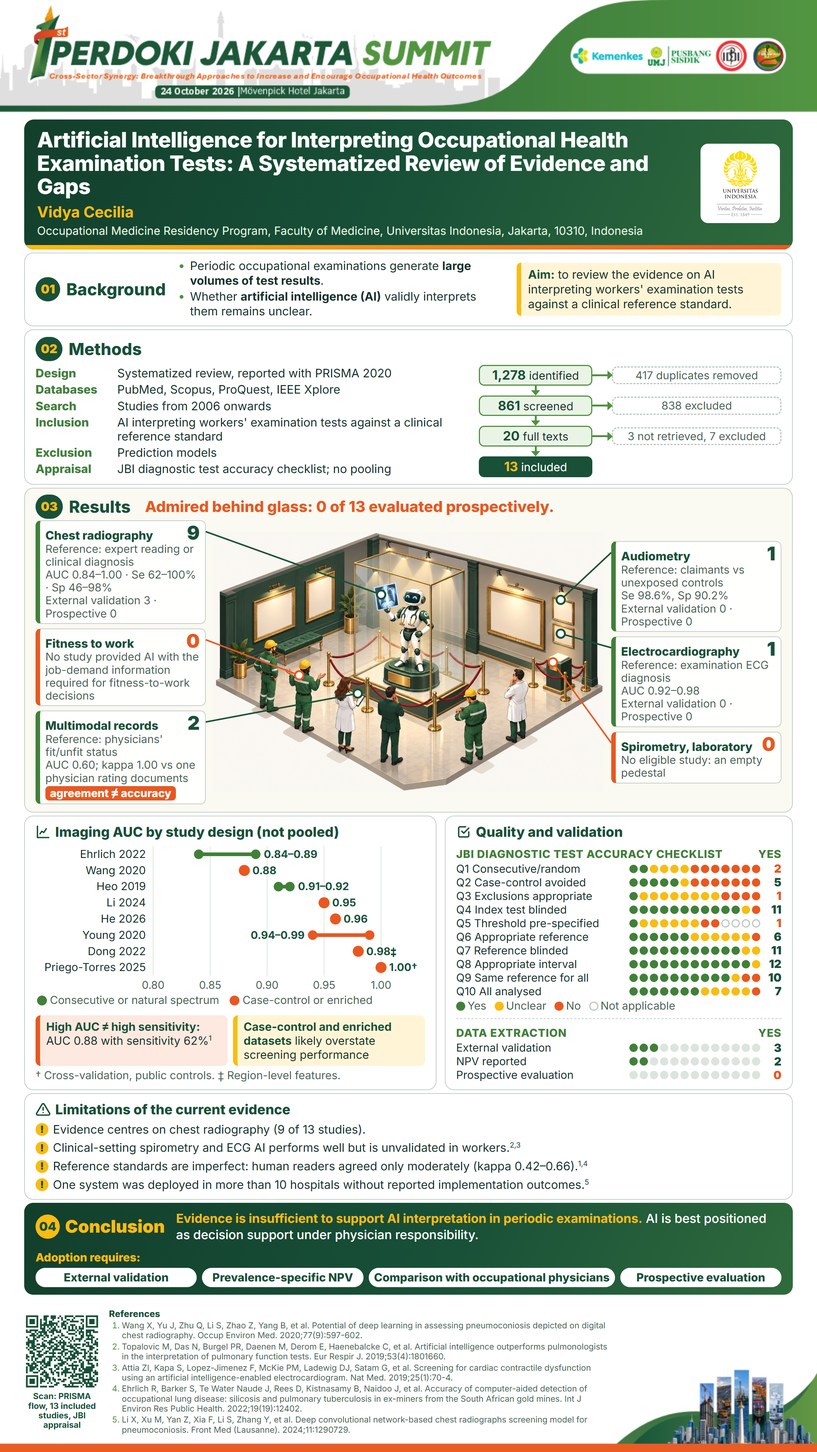
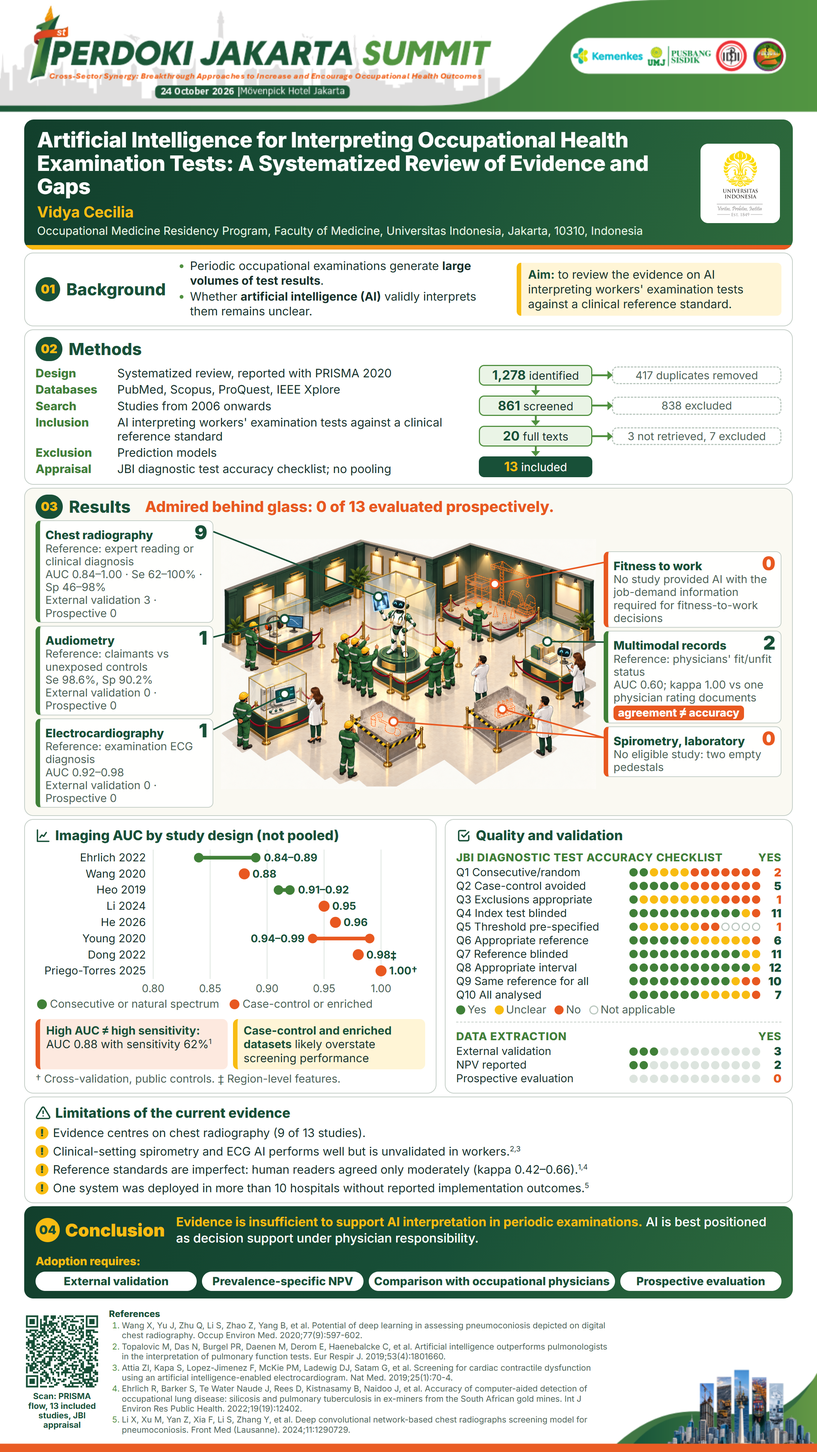
Rebuild alternative poster 3 on a museum image with one exhibit per examination test

Changed region(s): [[0.031, 0.3438, 0.9616, 0.9062], [0.2171, 0.3438, 0.2792, 0.375]]

diff --git a/Poster Jkt Summit eposter/poster_alt6.html b/Poster Jkt Summit eposter/poster_alt6.html
@@ -146,12 +146,12 @@
   .hero2 .kick.solo{margin:0 0 8px 0}
   .stage.grid{display:grid;align-items:center;gap:20px}
   .stage.grid img{position:static;width:100%;height:auto}
-  .stage.grid .col{position:static;display:flex;flex-direction:column;justify-content:center;gap:12px}
+  .stage.grid .col{position:static;display:flex;flex-direction:column;justify-content:center;gap:8px}
   .stage{position:relative}
   .stage img{position:absolute;display:block}
   .stage svg.lead{position:absolute;left:0;top:0;pointer-events:none;overflow:visible}
   .stage .col{position:absolute;top:0;bottom:0;display:flex;flex-direction:column;justify-content:space-between}
-  .cl{position:relative;background:rgba(255,255,255,.95);border:2px solid var(--line);border-left:12px solid var(--g600);border-radius:14px;padding:6px 14px 8px;font-size:29px;line-height:1.18;color:var(--ink)}
+  .cl{position:relative;background:rgba(255,255,255,.95);border:2px solid var(--line);border-left:12px solid var(--g600);border-radius:14px;padding:5px 14px 6px;font-size:29px;line-height:1.18;color:var(--ink)}
   .stage>.cl{position:absolute}
   .cl.z{border-left-color:var(--or)}
   .cl .t{display:flex;align-items:baseline;justify-content:space-between;gap:12px;font-weight:800;color:var(--g900);font-size:31px}
@@ -213,7 +213,7 @@
   </section>
 
   <section class="hero2"><div class="h"><span class="no">03</span>Results<span class="kick">One busy station, two closed ones, and no view of the workplace.</span></div>
-    <div class="stage" style="width:1972px;height:760px"><img src="assets/alt6_factory.png" alt="" style="left:480px;top:0px;width:1140px;height:760px"><svg class="lead"></svg><div class="col" style="left:0;width:450px"><div class="cl" data-ax="18" data-ay="25"><div class="t"><span>Chest radiography</span><span class="n">9</span></div><div class="m">Reference: expert reading or clinical diagnosis</div><div class="m">AUC 0.84–1.00 · Se 62–100% · Sp 46–98%</div><div class="m">External validation 3 · Prospective 0</div></div><div class="cl" data-ax="35" data-ay="27"><div class="t"><span>Audiometry</span><span class="n">1</span></div><div class="m">Reference: claimants vs unexposed controls</div><div class="m">Se 98.6%, Sp 90.2%</div><div class="m">External validation 0 · Prospective 0</div></div><div class="cl" data-ax="45" data-ay="38"><div class="t"><span>Electrocardiography</span><span class="n">1</span></div><div class="m">Reference: examination ECG diagnosis</div><div class="m">AUC 0.92–0.98</div><div class="m">External validation 0 · Prospective 0</div></div></div><div class="cl z" data-ax="56" data-ay="40" style="left:1170px;top:0px;width:380px"><div class="t"><span>Spirometry</span><span class="n">0</span></div><div class="m">No eligible study</div></div><div class="cl z" data-ax="64" data-ay="46" style="left:1592px;top:0px;width:380px"><div class="t"><span>Laboratory</span><span class="n">0</span></div><div class="m">No eligible study</div></div><div class="cl" data-ax="73" data-ay="58" style="left:1592px;top:170px;width:380px"><div class="t"><span>Multimodal records</span><span class="n">2</span></div><div class="m">Reference: physicians' fit/unfit status</div><div class="m">AUC 0.60; kappa 1.00 vs one physician rating documents</div><div class="m"><span class="tag">agreement ≠ accuracy</span></div></div><div class="cl z" data-ax="92" data-ay="66" style="left:1592px;top:520px;width:380px"><div class="t"><span>Fitness to work</span><span class="n">0</span></div><div class="m">No study provided AI with the job-demand information required for fitness-to-work decisions</div></div></div>
+    <div class="stage" style="width:1972px;height:760px"><img src="assets/alt6_factory.png" alt="" style="left:480px;top:0px;width:1140px;height:760px"><svg class="lead"></svg><div class="col" style="left:0;width:450px"><div class="cl" data-anchors="18,25"><div class="t"><span>Chest radiography</span><span class="n">9</span></div><div class="m">Reference: expert reading or clinical diagnosis</div><div class="m"><span style="white-space:nowrap">AUC 0.84–1.00</span> · <span style="white-space:nowrap">Se 62–100%</span> · <span style="white-space:nowrap">Sp 46–98%</span></div><div class="m"><span style="white-space:nowrap">External validation 3</span> · <span style="white-space:nowrap">Prospective 0</span></div></div><div class="cl" data-anchors="35,27"><div class="t"><span>Audiometry</span><span class="n">1</span></div><div class="m">Reference: claimants vs unexposed controls</div><div class="m">Se 98.6%, Sp 90.2%</div><div class="m"><span style="white-space:nowrap">External validation 0</span> · <span style="white-space:nowrap">Prospective 0</span></div></div><div class="cl" data-anchors="45,38"><div class="t"><span>Electrocardiography</span><span class="n">1</span></div><div class="m">Reference: examination ECG diagnosis</div><div class="m">AUC 0.92–0.98</div><div class="m"><span style="white-space:nowrap">External validation 0</span> · <span style="white-space:nowrap">Prospective 0</span></div></div></div><div class="cl z" data-anchors="56,40" style="left:1170px;top:0px;width:380px"><div class="t"><span>Spirometry</span><span class="n">0</span></div><div class="m">No eligible study</div></div><div class="cl z" data-anchors="64,46" style="left:1592px;top:0px;width:380px"><div class="t"><span>Laboratory</span><span class="n">0</span></div><div class="m">No eligible study</div></div><div class="cl" data-anchors="73,58" style="left:1592px;top:170px;width:380px"><div class="t"><span>Multimodal records</span><span class="n">2</span></div><div class="m">Reference: physicians' fit/unfit status</div><div class="m">AUC 0.60; kappa 1.00 vs one physician rating documents</div><div class="m"><span class="tag">agreement ≠ accuracy</span></div></div><div class="cl z" data-anchors="92,66" style="left:1592px;top:520px;width:380px"><div class="t"><span>Fitness to work</span><span class="n">0</span></div><div class="m">No study provided AI with the job-demand information required for fitness-to-work decisions</div></div></div>
   </section>
   <section class="row r2">
     <div class="card">
@@ -333,9 +333,10 @@ function drawLeaders(){
     const sr = st.getBoundingClientRect(), img = st.querySelector('img').getBoundingClientRect();
     const svg = st.querySelector('svg.lead'); svg.setAttribute('width', sr.width); svg.setAttribute('height', sr.height);
     let out = '';
-    for (const c of st.querySelectorAll('.cl')) {
+    for (const c of st.querySelectorAll('.cl')) for (const pt of c.dataset.anchors.split(';')) {
+      const [px, py] = pt.split(',').map(Number);
       const r = c.getBoundingClientRect();
-      const ax = img.left - sr.left + img.width * c.dataset.ax / 100, ay = img.top - sr.top + img.height * c.dataset.ay / 100;
+      const ax = img.left - sr.left + img.width * px / 100, ay = img.top - sr.top + img.height * py / 100;
       const L = r.left - sr.left, R = r.right - sr.left, T = r.top - sr.top, B = r.bottom - sr.top;
       let sx, sy;
       if (ax > R) { sx = R; sy = T + 30; } else if (ax < L) { sx = L; sy = T + 30; }

diff --git a/Poster Jkt Summit eposter/poster_alt1.html b/Poster Jkt Summit eposter/poster_alt1.html
@@ -146,12 +146,12 @@
   .hero2 .kick.solo{margin:0 0 8px 0}
   .stage.grid{display:grid;align-items:center;gap:20px}
   .stage.grid img{position:static;width:100%;height:auto}
-  .stage.grid .col{position:static;display:flex;flex-direction:column;justify-content:center;gap:12px}
+  .stage.grid .col{position:static;display:flex;flex-direction:column;justify-content:center;gap:8px}
   .stage{position:relative}
   .stage img{position:absolute;display:block}
   .stage svg.lead{position:absolute;left:0;top:0;pointer-events:none;overflow:visible}
   .stage .col{position:absolute;top:0;bottom:0;display:flex;flex-direction:column;justify-content:space-between}
-  .cl{position:relative;background:rgba(255,255,255,.95);border:2px solid var(--line);border-left:12px solid var(--g600);border-radius:14px;padding:6px 14px 8px;font-size:29px;line-height:1.18;color:var(--ink)}
+  .cl{position:relative;background:rgba(255,255,255,.95);border:2px solid var(--line);border-left:12px solid var(--g600);border-radius:14px;padding:5px 14px 6px;font-size:29px;line-height:1.18;color:var(--ink)}
   .stage>.cl{position:absolute}
   .cl.z{border-left-color:var(--or)}
   .cl .t{display:flex;align-items:baseline;justify-content:space-between;gap:12px;font-weight:800;color:var(--g900);font-size:31px}
@@ -213,7 +213,7 @@
   </section>
 
   <section class="hero2"><div class="h"><span class="no">03</span>Results<span class="kick">AI reads the tests. No study showed it the job.</span></div>
-    <div class="stage grid" style="width:1972px;grid-template-columns:450px 1fr 450px"><div class="col"><div class="cl" data-ax="45" data-ay="9"><div class="t"><span>Audiometry</span><span class="n">1</span></div><div class="m">Reference: claimants vs unexposed controls</div><div class="m">Se 98.6%, Sp 90.2%</div><div class="m">External validation 0 · Prospective 0</div></div><div class="cl" data-ax="47" data-ay="26"><div class="t"><span>Chest radiography</span><span class="n">9</span></div><div class="m">Reference: expert reading or clinical diagnosis</div><div class="m">AUC 0.84–1.00 · Se 62–100% · Sp 46–98%</div><div class="m">External validation 3 · Prospective 0</div></div><div class="cl z" data-ax="48.5" data-ay="33"><div class="t"><span>Spirometry</span><span class="n">0</span></div><div class="m">No eligible study</div></div><div class="cl z" data-ax="40.5" data-ay="51"><div class="t"><span>Laboratory</span><span class="n">0</span></div><div class="m">No eligible study</div></div></div><img src="assets/alt1b_worker_iso.png" alt=""><svg class="lead"></svg><div class="col"><div class="cl" data-ax="63" data-ay="27"><div class="t"><span>Multimodal records</span><span class="n">2</span></div><div class="m">Reference: physicians' fit/unfit status</div><div class="m">AUC 0.60; kappa 1.00 vs one physician rating documents</div><div class="m"><span class="tag">agreement ≠ accuracy</span></div></div><div class="cl" data-ax="55" data-ay="32"><div class="t"><span>Electrocardiography</span><span class="n">1</span></div><div class="m">Reference: examination ECG diagnosis</div><div class="m">AUC 0.92–0.98</div><div class="m">External validation 0 · Prospective 0</div></div><div class="cl z" data-ax="82" data-ay="63"><div class="t"><span>Fitness to work</span><span class="n">0</span></div><div class="m">No study provided AI with the job-demand information required for fitness-to-work decisions</div></div></div></div>
+    <div class="stage grid" style="width:1972px;grid-template-columns:450px 1fr 450px"><div class="col"><div class="cl" data-anchors="45,9"><div class="t"><span>Audiometry</span><span class="n">1</span></div><div class="m">Reference: claimants vs unexposed controls</div><div class="m">Se 98.6%, Sp 90.2%</div><div class="m"><span style="white-space:nowrap">External validation 0</span> · <span style="white-space:nowrap">Prospective 0</span></div></div><div class="cl" data-anchors="47,26"><div class="t"><span>Chest radiography</span><span class="n">9</span></div><div class="m">Reference: expert reading or clinical diagnosis</div><div class="m"><span style="white-space:nowrap">AUC 0.84–1.00</span> · <span style="white-space:nowrap">Se 62–100%</span> · <span style="white-space:nowrap">Sp 46–98%</span></div><div class="m"><span style="white-space:nowrap">External validation 3</span> · <span style="white-space:nowrap">Prospective 0</span></div></div><div class="cl z" data-anchors="48.5,33"><div class="t"><span>Spirometry</span><span class="n">0</span></div><div class="m">No eligible study</div></div><div class="cl z" data-anchors="40.5,51"><div class="t"><span>Laboratory</span><span class="n">0</span></div><div class="m">No eligible study</div></div></div><img src="assets/alt1b_worker_iso.png" alt=""><svg class="lead"></svg><div class="col"><div class="cl" data-anchors="63,27"><div class="t"><span>Multimodal records</span><span class="n">2</span></div><div class="m">Reference: physicians' fit/unfit status</div><div class="m">AUC 0.60; kappa 1.00 vs one physician rating documents</div><div class="m"><span class="tag">agreement ≠ accuracy</span></div></div><div class="cl" data-anchors="55,32"><div class="t"><span>Electrocardiography</span><span class="n">1</span></div><div class="m">Reference: examination ECG diagnosis</div><div class="m">AUC 0.92–0.98</div><div class="m"><span style="white-space:nowrap">External validation 0</span> · <span style="white-space:nowrap">Prospective 0</span></div></div><div class="cl z" data-anchors="82,63"><div class="t"><span>Fitness to work</span><span class="n">0</span></div><div class="m">No study provided AI with the job-demand information required for fitness-to-work decisions</div></div></div></div>
   </section>
   <section class="row r2">
     <div class="card">
@@ -333,9 +333,10 @@ function drawLeaders(){
     const sr = st.getBoundingClientRect(), img = st.querySelector('img').getBoundingClientRect();
     const svg = st.querySelector('svg.lead'); svg.setAttribute('width', sr.width); svg.setAttribute('height', sr.height);
     let out = '';
-    for (const c of st.querySelectorAll('.cl')) {
+    for (const c of st.querySelectorAll('.cl')) for (const pt of c.dataset.anchors.split(';')) {
+      const [px, py] = pt.split(',').map(Number);
       const r = c.getBoundingClientRect();
-      const ax = img.left - sr.left + img.width * c.dataset.ax / 100, ay = img.top - sr.top + img.height * c.dataset.ay / 100;
+      const ax = img.left - sr.left + img.width * px / 100, ay = img.top - sr.top + img.height * py / 100;
       const L = r.left - sr.left, R = r.right - sr.left, T = r.top - sr.top, B = r.bottom - sr.top;
       let sx, sy;
       if (ax > R) { sx = R; sy = T + 30; } else if (ax < L) { sx = L; sy = T + 30; }

diff --git a/Poster Jkt Summit eposter/poster_alt3.html b/Poster Jkt Summit eposter/poster_alt3.html
@@ -146,12 +146,12 @@
   .hero2 .kick.solo{margin:0 0 8px 0}
   .stage.grid{display:grid;align-items:center;gap:20px}
   .stage.grid img{position:static;width:100%;height:auto}
-  .stage.grid .col{position:static;display:flex;flex-direction:column;justify-content:center;gap:12px}
+  .stage.grid .col{position:static;display:flex;flex-direction:column;justify-content:center;gap:8px}
   .stage{position:relative}
   .stage img{position:absolute;display:block}
   .stage svg.lead{position:absolute;left:0;top:0;pointer-events:none;overflow:visible}
   .stage .col{position:absolute;top:0;bottom:0;display:flex;flex-direction:column;justify-content:space-between}
-  .cl{position:relative;background:rgba(255,255,255,.95);border:2px solid var(--line);border-left:12px solid var(--g600);border-radius:14px;padding:6px 14px 8px;font-size:29px;line-height:1.18;color:var(--ink)}
+  .cl{position:relative;background:rgba(255,255,255,.95);border:2px solid var(--line);border-left:12px solid var(--g600);border-radius:14px;padding:5px 14px 6px;font-size:29px;line-height:1.18;color:var(--ink)}
   .stage>.cl{position:absolute}
   .cl.z{border-left-color:var(--or)}
   .cl .t{display:flex;align-items:baseline;justify-content:space-between;gap:12px;font-weight:800;color:var(--g900);font-size:31px}
@@ -213,7 +213,7 @@
   </section>
 
   <section class="hero2"><div class="h"><span class="no">03</span>Results<span class="kick">Admired behind glass: 0 of 13 evaluated prospectively.</span></div>
-    <div class="stage grid" style="width:1972px;grid-template-columns:450px 1fr 450px"><div class="col"><div class="cl" data-ax="43" data-ay="24"><div class="t"><span>Chest radiography</span><span class="n">9</span></div><div class="m">Reference: expert reading or clinical diagnosis</div><div class="m">AUC 0.84–1.00 · Se 62–100% · Sp 46–98%</div><div class="m">External validation 3 · Prospective 0</div></div><div class="cl z" data-ax="22" data-ay="55"><div class="t"><span>Fitness to work</span><span class="n">0</span></div><div class="m">No study provided AI with the job-demand information required for fitness-to-work decisions</div></div><div class="cl" data-ax="37" data-ay="62"><div class="t"><span>Multimodal records</span><span class="n">2</span></div><div class="m">Reference: physicians' fit/unfit status</div><div class="m">AUC 0.60; kappa 1.00 vs one physician rating documents</div><div class="m"><span class="tag">agreement ≠ accuracy</span></div></div></div><img src="assets/alt3_museum.png" alt=""><svg class="lead"></svg><div class="col"><div class="cl" data-ax="89" data-ay="26"><div class="t"><span>Audiometry</span><span class="n">1</span></div><div class="m">Reference: claimants vs unexposed controls</div><div class="m">Se 98.6%, Sp 90.2%</div><div class="m">External validation 0 · Prospective 0</div></div><div class="cl" data-ax="89" data-ay="39"><div class="t"><span>Electrocardiography</span><span class="n">1</span></div><div class="m">Reference: examination ECG diagnosis</div><div class="m">AUC 0.92–0.98</div><div class="m">External validation 0 · Prospective 0</div></div><div class="cl z" data-ax="87" data-ay="50"><div class="t"><span>Spirometry, laboratory</span><span class="n">0</span></div><div class="m">No eligible study: an empty pedestal</div></div></div></div>
+    <div class="stage grid" style="width:1972px;grid-template-columns:470px 1fr 470px"><div class="col"><div class="cl" data-anchors="42,23"><div class="t"><span>Chest radiography</span><span class="n">9</span></div><div class="m">Reference: expert reading or clinical diagnosis</div><div class="m"><span style="white-space:nowrap">AUC 0.84–1.00</span> · <span style="white-space:nowrap">Se 62–100%</span> · <span style="white-space:nowrap">Sp 46–98%</span></div><div class="m"><span style="white-space:nowrap">External validation 3</span> · <span style="white-space:nowrap">Prospective 0</span></div></div><div class="cl" data-anchors="17,32"><div class="t"><span>Audiometry</span><span class="n">1</span></div><div class="m">Reference: claimants vs unexposed controls</div><div class="m">Se 98.6%, Sp 90.2%</div><div class="m"><span style="white-space:nowrap">External validation 0</span> · <span style="white-space:nowrap">Prospective 0</span></div></div><div class="cl" data-anchors="17,62"><div class="t"><span>Electrocardiography</span><span class="n">1</span></div><div class="m">Reference: examination ECG diagnosis</div><div class="m">AUC 0.92–0.98</div><div class="m"><span style="white-space:nowrap">External validation 0</span> · <span style="white-space:nowrap">Prospective 0</span></div></div></div><img src="assets/alt3b_museum_stations.png" alt=""><svg class="lead"></svg><div class="col"><div class="cl z" data-anchors="73,18"><div class="t"><span>Fitness to work</span><span class="n">0</span></div><div class="m">No study provided AI with the job-demand information required for fitness-to-work decisions</div></div><div class="cl" data-anchors="87,41"><div class="t"><span>Multimodal records</span><span class="n">2</span></div><div class="m">Reference: physicians' fit/unfit status</div><div class="m">AUC 0.60; kappa 1.00 vs one physician rating documents</div><div class="m"><span class="tag">agreement ≠ accuracy</span></div></div><div class="cl z" data-anchors="75,68;46,73"><div class="t"><span>Spirometry, laboratory</span><span class="n">0</span></div><div class="m">No eligible study: two empty pedestals</div></div></div></div>
   </section>
   <section class="row r2">
     <div class="card">
@@ -333,9 +333,10 @@ function drawLeaders(){
     const sr = st.getBoundingClientRect(), img = st.querySelector('img').getBoundingClientRect();
     const svg = st.querySelector('svg.lead'); svg.setAttribute('width', sr.width); svg.setAttribute('height', sr.height);
     let out = '';
-    for (const c of st.querySelectorAll('.cl')) {
+    for (const c of st.querySelectorAll('.cl')) for (const pt of c.dataset.anchors.split(';')) {
+      const [px, py] = pt.split(',').map(Number);
       const r = c.getBoundingClientRect();
-      const ax = img.left - sr.left + img.width * c.dataset.ax / 100, ay = img.top - sr.top + img.height * c.dataset.ay / 100;
+      const ax = img.left - sr.left + img.width * px / 100, ay = img.top - sr.top + img.height * py / 100;
       const L = r.left - sr.left, R = r.right - sr.left, T = r.top - sr.top, B = r.bottom - sr.top;
       let sx, sy;
       if (ax > R) { sx = R; sy = T + 30; } else if (ax < L) { sx = L; sy = T + 30; }

diff --git a/Poster Jkt Summit eposter/poster_alt2.html b/Poster Jkt Summit eposter/poster_alt2.html
@@ -146,12 +146,12 @@
   .hero2 .kick.solo{margin:0 0 8px 0}
   .stage.grid{display:grid;align-items:center;gap:20px}
   .stage.grid img{position:static;width:100%;height:auto}
-  .stage.grid .col{position:static;display:flex;flex-direction:column;justify-content:center;gap:12px}
+  .stage.grid .col{position:static;display:flex;flex-direction:column;justify-content:center;gap:8px}
   .stage{position:relative}
   .stage img{position:absolute;display:block}
   .stage svg.lead{position:absolute;left:0;top:0;pointer-events:none;overflow:visible}
   .stage .col{position:absolute;top:0;bottom:0;display:flex;flex-direction:column;justify-content:space-between}
-  .cl{position:relative;background:rgba(255,255,255,.95);border:2px solid var(--line);border-left:12px solid var(--g600);border-radius:14px;padding:6px 14px 8px;font-size:29px;line-height:1.18;color:var(--ink)}
+  .cl{position:relative;background:rgba(255,255,255,.95);border:2px solid var(--line);border-left:12px solid var(--g600);border-radius:14px;padding:5px 14px 6px;font-size:29px;line-height:1.18;color:var(--ink)}
   .stage>.cl{position:absolute}
   .cl.z{border-left-color:var(--or)}
   .cl .t{display:flex;align-items:baseline;justify-content:space-between;gap:12px;font-weight:800;color:var(--g900);font-size:31px}
@@ -226,7 +226,7 @@
   </section>
   <section class="row2">
   <section class="hero2"><div class="kick solo">Strong on curated datasets. Not yet evaluated prospectively in workers.</div>
-    <div class="stage" style="width:1100px;height:850px"><img src="assets/alt2_dummies.png" alt="" style="left:10px;top:130px;width:1080px;height:720px"><svg class="lead"></svg><div class="cl z" data-ax="58" data-ay="42" style="left:0px;top:0px;width:520px"><div class="t"><span>Case-control or enriched</span><span class="n">7/13</span></div><div class="m">Curated datasets likely overstate screening performance</div></div><div class="cl" data-ax="33" data-ay="60" style="left:10px;top:700px;width:520px"><div class="t"><span>High AUC ≠ sensitivity</span><span class="n">0.88</span></div><div class="m">AUC 0.88 with sensitivity 62%<sup>1</sup>; AUC up to 1.00 in cross-validation</div></div><div class="cl z" data-ax="91" data-ay="28" style="left:580px;top:0px;width:500px"><div class="t"><span>Prospective in workers</span><span class="n">0/13</span></div><div class="m">External validation 3/13 · NPV 2/13</div></div></div>
+    <div class="stage" style="width:1100px;height:850px"><img src="assets/alt2_dummies.png" alt="" style="left:10px;top:130px;width:1080px;height:720px"><svg class="lead"></svg><div class="cl z" data-anchors="58,42" style="left:0px;top:0px;width:520px"><div class="t"><span>Case-control or enriched</span><span class="n">7/13</span></div><div class="m">Curated datasets likely overstate screening performance</div></div><div class="cl" data-anchors="33,60" style="left:10px;top:700px;width:520px"><div class="t"><span>High AUC ≠ sensitivity</span><span class="n">0.88</span></div><div class="m">AUC 0.88 with sensitivity 62%<sup>1</sup>; AUC up to 1.00 in cross-validation</div></div><div class="cl z" data-anchors="91,28" style="left:580px;top:0px;width:500px"><div class="t"><span>Prospective in workers</span><span class="n">0/13</span></div><div class="m">External validation 3/13 · NPV 2/13</div></div></div>
   </section>
     <div class="card dm">
       <div class="h2"><svg viewBox="0 0 24 24" fill="none" stroke="#185038" stroke-width="2.2" stroke-linecap="round" stroke-linejoin="round"><path d="M9 11l3 3 8-8M20 12v6a2 2 0 0 1-2 2H6a2 2 0 0 1-2-2V6a2 2 0 0 1 2-2h9"/></svg>Quality and validation</div>
@@ -295,9 +295,10 @@ function drawLeaders(){
     const sr = st.getBoundingClientRect(), img = st.querySelector('img').getBoundingClientRect();
     const svg = st.querySelector('svg.lead'); svg.setAttribute('width', sr.width); svg.setAttribute('height', sr.height);
     let out = '';
-    for (const c of st.querySelectorAll('.cl')) {
+    for (const c of st.querySelectorAll('.cl')) for (const pt of c.dataset.anchors.split(';')) {
+      const [px, py] = pt.split(',').map(Number);
       const r = c.getBoundingClientRect();
-      const ax = img.left - sr.left + img.width * c.dataset.ax / 100, ay = img.top - sr.top + img.height * c.dataset.ay / 100;
+      const ax = img.left - sr.left + img.width * px / 100, ay = img.top - sr.top + img.height * py / 100;
       const L = r.left - sr.left, R = r.right - sr.left, T = r.top - sr.top, B = r.bottom - sr.top;
       let sx, sy;
       if (ax > R) { sx = R; sy = T + 30; } else if (ax < L) { sx = L; sy = T + 30; }

diff --git a/Poster Jkt Summit eposter/build_alt.py b/Poster Jkt Summit eposter/build_alt.py
@@ -52,12 +52,12 @@ ALT_CSS = """
   .hero2 .kick.solo{margin:0 0 8px 0}
   .stage.grid{display:grid;align-items:center;gap:20px}
   .stage.grid img{position:static;width:100%;height:auto}
-  .stage.grid .col{position:static;display:flex;flex-direction:column;justify-content:center;gap:12px}
+  .stage.grid .col{position:static;display:flex;flex-direction:column;justify-content:center;gap:8px}
   .stage{position:relative}
   .stage img{position:absolute;display:block}
   .stage svg.lead{position:absolute;left:0;top:0;pointer-events:none;overflow:visible}
   .stage .col{position:absolute;top:0;bottom:0;display:flex;flex-direction:column;justify-content:space-between}
-  .cl{position:relative;background:rgba(255,255,255,.95);border:2px solid var(--line);border-left:12px solid var(--g600);border-radius:14px;padding:6px 14px 8px;font-size:29px;line-height:1.18;color:var(--ink)}
+  .cl{position:relative;background:rgba(255,255,255,.95);border:2px solid var(--line);border-left:12px solid var(--g600);border-radius:14px;padding:5px 14px 6px;font-size:29px;line-height:1.18;color:var(--ink)}
   .stage>.cl{position:absolute}
   .cl.z{border-left-color:var(--or)}
   .cl .t{display:flex;align-items:baseline;justify-content:space-between;gap:12px;font-weight:800;color:var(--g900);font-size:31px}
@@ -78,9 +78,10 @@ function drawLeaders(){
     const sr = st.getBoundingClientRect(), img = st.querySelector('img').getBoundingClientRect();
     const svg = st.querySelector('svg.lead'); svg.setAttribute('width', sr.width); svg.setAttribute('height', sr.height);
     let out = '';
-    for (const c of st.querySelectorAll('.cl')) {
+    for (const c of st.querySelectorAll('.cl')) for (const pt of c.dataset.anchors.split(';')) {
+      const [px, py] = pt.split(',').map(Number);
       const r = c.getBoundingClientRect();
-      const ax = img.left - sr.left + img.width * c.dataset.ax / 100, ay = img.top - sr.top + img.height * c.dataset.ay / 100;
+      const ax = img.left - sr.left + img.width * px / 100, ay = img.top - sr.top + img.height * py / 100;
       const L = r.left - sr.left, R = r.right - sr.left, T = r.top - sr.top, B = r.bottom - sr.top;
       let sx, sy;
       if (ax > R) { sx = R; sy = T + 30; } else if (ax < L) { sx = L; sy = T + 30; }
@@ -101,7 +102,8 @@ def callout(c, absolute=False):
     cls = "cl z" if c.get("zero") else "cl"
     pos = f' style="left:{c["x"]}px;top:{c["y"]}px;width:{c["w"]}px"' if absolute else ""
     lines = "".join(f'<div class="m">{x}</div>' for x in c["lines"])
-    return (f'<div class="{cls}" data-ax="{c["ax"]}" data-ay="{c["ay"]}"{pos}>'
+    anchors = ";".join(f"{x},{y}" for x, y in (c["anchors"] if "anchors" in c else [(c["ax"], c["ay"])]))
+    return (f'<div class="{cls}" data-anchors="{anchors}"{pos}>'
             f'<div class="t"><span>{c["name"]}</span><span class="n">{c["n"]}</span></div>{lines}</div>')
 
 
@@ -130,9 +132,11 @@ def hero(v, width=STAGE_W, num=True):
             f'\n    {stage(v, width)}\n  </section>\n')
 
 
-EXT = "External validation {e} · Prospective 0"
+NB = '<span style="white-space:nowrap">{}</span>'
+EXT = NB.format("External validation {e}") + " · " + NB.format("Prospective 0")
 CHEST = dict(name="Chest radiography", n="9", lines=["Reference: expert reading or clinical diagnosis",
-             "AUC 0.84–1.00 · Se 62–100% · Sp 46–98%", EXT.format(e=3)])
+             NB.format("AUC 0.84–1.00") + " · " + NB.format("Se 62–100%") + " · " + NB.format("Sp 46–98%"),
+             EXT.format(e=3)])
 AUDIO = dict(name="Audiometry", n="1", lines=["Reference: claimants vs unexposed controls",
              "Se 98.6%, Sp 90.2%", EXT.format(e=0)])
 ECG = dict(name="Electrocardiography", n="1", lines=["Reference: examination ECG diagnosis",
@@ -153,12 +157,12 @@ VARIANTS = {
               {**SPIRO, "ax": 48.5, "ay": 33}, {**LAB, "ax": 40.5, "ay": 51}],
         right=[{**MULTI, "ax": 63, "ay": 27}, {**ECG, "ax": 55, "ay": 32}, {**FTW, "ax": 82, "ay": 63}]),
     "alt3": dict(
-        img="alt3_museum.png", kick="Admired behind glass: 0 of 13 evaluated prospectively.",
-        mode="grid", col_w=450,
-        left=[{**CHEST, "ax": 43, "ay": 24}, {**FTW, "ax": 22, "ay": 55}, {**MULTI, "ax": 37, "ay": 62}],
-        right=[{**AUDIO, "ax": 89, "ay": 26}, {**ECG, "ax": 89, "ay": 39},
-               dict(name="Spirometry, laboratory", n="0", zero=True, ax=87, ay=50,
-                    lines=["No eligible study: an empty pedestal"])]),
+        img="alt3b_museum_stations.png", kick="Admired behind glass: 0 of 13 evaluated prospectively.",
+        mode="grid", col_w=470,
+        left=[{**CHEST, "ax": 42, "ay": 23}, {**AUDIO, "ax": 17, "ay": 32}, {**ECG, "ax": 17, "ay": 62}],
+        right=[{**FTW, "ax": 73, "ay": 18}, {**MULTI, "ax": 87, "ay": 41},
+               dict(name="Spirometry, laboratory", n="0", zero=True, anchors=[(75, 68), (46, 73)],
+                    lines=["No eligible study: two empty pedestals"])]),
     "alt6": dict(
         img="alt6_factory.png", kick="One busy station, two closed ones, and no view of the workplace.",
         img_w=1140, img_x=480, col_w=450, stage_h=760,
